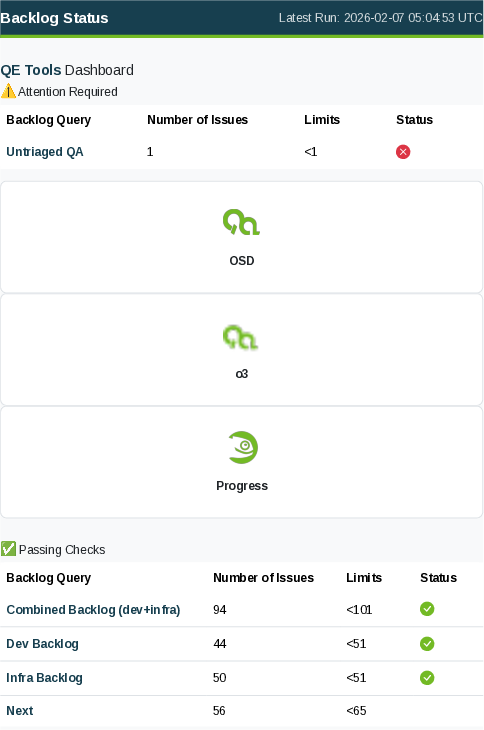
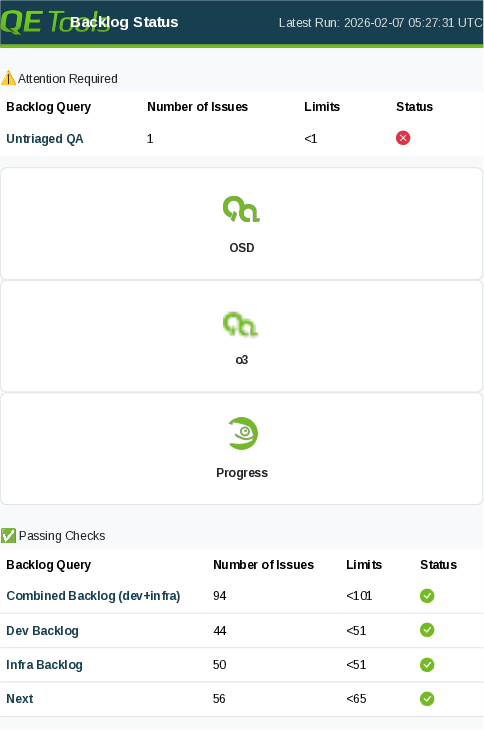
Deploying to gh-pages from @ r-richardson/qa-tools-backlog-assistant@a2a9802930c597608aafc46fc9bd891c6381d0d4 🚀

diff --git a/index.html b/index.html
@@ -146,17 +146,18 @@
 
 <nav class="navbar navbar-expand-lg">
   <div class="container">
-    <a class="navbar-brand" href="#">Backlog Status</a>
+    <div class="d-flex align-items-center">
+      <a href="https://progress.opensuse.org/projects/qa/wiki/Tools" class="navbar-brand d-flex align-items-center"><img src="icons/logo.png" alt="QE Tools" style="height: 32px; margin-right: 10px; vertical-align: middle;"></a>
+      <span class="navbar-brand mb-0 h1 ms-1">Backlog Status</span>
+    </div>
     <span class="navbar-text">
-       Latest Run: 2026-02-07 05:04:53 UTC
+       Latest Run: 2026-02-07 05:27:31 UTC
     </span>
   </div>
 </nav>
 
 <div class="container">
-<main><h3 id="qe-toolshttpsprogressopensuseorgprojectsqawikitools-dashboard"><a href="https://progress.opensuse.org/projects/qa/wiki/Tools">QE Tools</a> Dashboard</h3>
-
-<h4 id="attention-required">⚠ Attention Required</h4>
+<main><h4 id="attention-required">⚠ Attention Required</h4>
 <div class="table-responsive">
 <table class="table table-hover">
 <thead><tr><th>Backlog Query</th><th>Number of Issues</th><th>Limits</th><th>Status</th></tr></thead>
